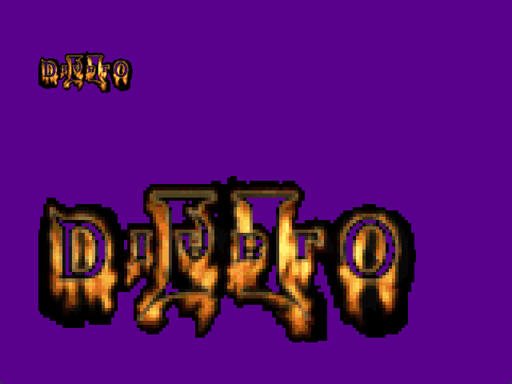
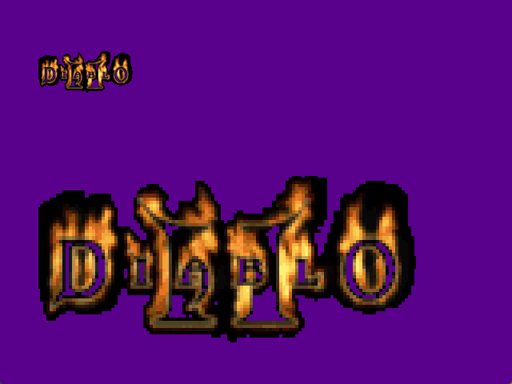
DC-001.4b: el sprite salia espejado verticalmente (lo cazo el usuario)
El logo se veia volteado en pantalla mientras la comparacion pixel a pixel daba 100% igual:
la referencia del host sale del MISMO horneado que la textura, asi que un espejado se
comparaba espejado contra espejado.

Causa: el horneador le daba una vuelta extra a las filas que devuelve dc6.DecodeFrame(). Ese
decodificador arranca en y = height-1 y va bajando porque el DC6 guarda las lineas de abajo
hacia arriba: lo que devuelve YA esta en orden de despliegue (es lo que el motor mete en la
superficie). La vuelta "para el PVR" era el espejado.

Arreglos:
- bake.go: no invierte nada (y deja registrado el flag Flipped del frame para diagnostico)
- compare-capture.py: compara la captura contra la referencia en las cuatro orientaciones e
  informa cual coincide (con la captura vieja delata "espejada vertical 100.0%"), y ubica la
  pantalla de la consola sola por color de fondo, refinando el borde a pixel (KDE abre el
  emulador en distinto lugar: medi 2752,456 y 2850,461)

Verificado: identidad 100% (4051/4051 pixeles de arte, diferencia maxima 7) y transparentes
100% (2085/2085). Confirmado con la vista: el logo se lee derecho, letra por letra.

Changed region(s): [[0.0625, 0.4375, 0.8125, 0.9062], [0.0625, 0.125, 0.25, 0.25]]

diff --git a/scripts/console/compare-capture.py b/scripts/console/compare-capture.py
@@ -42,12 +42,46 @@ def size(png):
     return int(w), int(h)
 
 
+def buscar_pantalla(png, color):
+    """Ubica la pantalla de la consola dentro de la captura: es la zona llena con el color de
+    fondo del POC. Evita depender de donde el gestor de ventanas puso el emulador (KDE la mueve)."""
+    cw, ch = size(png)
+    buf = raw(png, fmt="rgb24")
+    fr, fg, fb = color
+    filas = []
+    for y in range(ch):
+        coinciden = []
+        for x in range(0, cw, 4):
+            i = (y * cw + x) * 3
+            if abs(buf[i] - fr) < 25 and abs(buf[i + 1] - fg) < 25 and abs(buf[i + 2] - fb) < 25:
+                coinciden.append(x)
+        if len(coinciden) > 50:
+            filas.append((y, min(coinciden), max(coinciden)))
+    if not filas:
+        sys.exit(f"no encontre la pantalla: ningun sector ancho del color {color} en {png}")
+
+    def es_fondo(x, y):
+        i = (y * cw + x) * 3
+        return abs(buf[i] - fr) < 25 and abs(buf[i + 1] - fg) < 25 and abs(buf[i + 2] - fb) < 25
+
+    # refinar a pixel: la busqueda gruesa se come el borde de la ventana y quedan 2 px de corrimiento
+    y_medio = (filas[0][0] + filas[-1][0]) // 2
+    x_izq = next(x for x in range(0, cw) if es_fondo(x, y_medio))
+    x_der = next(x for x in range(cw - 1, -1, -1) if es_fondo(x, y_medio))
+    x_medio = (x_izq + x_der) // 2
+    y_arr = next(y for y in range(0, ch) if es_fondo(x_medio, y))
+    y_aba = next(y for y in range(ch - 1, -1, -1) if es_fondo(x_medio, y))
+
+    return x_izq, y_arr, x_der - x_izq + 1
+
+
 def main():
     ap = argparse.ArgumentParser()
     ap.add_argument("--captura", required=True, help="PNG de la captura (pantalla completa)")
     ap.add_argument("--referencia", required=True, help="PNG de referencia que deja el horneador")
-    ap.add_argument("--pantalla", nargs=2, type=int, required=True,
-                    metavar=("X", "Y"), help="origen de la pantalla de la consola en la captura")
+    ap.add_argument("--pantalla", nargs=2, type=int, default=None, metavar=("X", "Y"),
+                    help="origen de la pantalla de la consola en la captura (si se omite, se "
+                         "busca solo por el color de --fondo, que llena la pantalla)")
     ap.add_argument("--pos", nargs=2, type=int, required=True,
                     metavar=("X", "Y"), help="donde se dibujo el asset en la pantalla")
     ap.add_argument("--tol", type=int, default=8, help="tolerancia por canal (ARGB1555 = 8)")
@@ -56,11 +90,44 @@ def main():
     args = ap.parse_args()
 
     W, H = size(args.referencia)
-    sx, sy = args.pantalla
+
+    if args.pantalla is None:
+        if args.fondo is None:
+            sys.exit("sin --pantalla hace falta --fondo: es el color que llena la pantalla de la "
+                     "consola y con el se la ubica")
+        sx, sy, sw = buscar_pantalla(args.captura, args.fondo)
+        print(f"pantalla encontrada en {sx},{sy} (ancho {sw})")
+    else:
+        sx, sy = args.pantalla
+
     px, py = args.pos
 
     host = raw(args.referencia, fmt="rgba")
     dc = raw(args.captura, vf=f"crop={W}:{H}:{sx + px}:{sy + py}")
+
+    def comparar(flipx, flipy):
+        """Cuenta coincidencias comparando la captura contra la referencia en una orientacion.
+
+        La referencia sale del MISMO horneado que la textura, asi que una espejada se compara
+        espejada contra espejada y da 100% igual: por eso hay que mirar las cuatro
+        orientaciones, para delatar un volteo del horneado (paso: el logo salia de cabeza y la
+        comparacion no lo veia).
+        """
+        total = ok = dmax = 0
+        for y in range(H):
+            for x in range(W):
+                sy = (H - 1 - y) if flipy else y
+                sx = (W - 1 - x) if flipx else x
+                i = (sy * W + sx) * 4
+                if host[i + 3] == 0:
+                    continue
+                j = (y * W + x) * 3
+                total += 1
+                d = max(abs(host[i] - dc[j]), abs(host[i + 1] - dc[j + 1]), abs(host[i + 2] - dc[j + 2]))
+                dmax = max(dmax, d)
+                if d <= args.tol:
+                    ok += 1
+        return total, ok, dmax
 
     arte_total = arte_ok = dif_max = 0
     trans_total = trans_ok = 0
@@ -94,6 +161,24 @@ def main():
     if trans_total:
         print(f"  pixeles transparentes: {trans_ok}/{trans_total} "
               f"({100.0 * trans_ok / trans_total:.1f}%) con el fondo visible")
+
+    # orientacion: donde mejor coincide la captura (identidad = como se horneo esta bien)
+    orientaciones = [("identidad", 0, 0), ("espejada horizontal", 1, 0),
+                     ("espejada vertical", 0, 1), ("rotada 180", 1, 1)]
+    print("  orientacion de la captura contra la referencia:")
+    mejor = None
+    for nombre, fx, fy in orientaciones:
+        t, o, _ = comparar(fx, fy)
+        if t == 0:
+            continue
+        pct = 100.0 * o / t
+        print(f"    {nombre:<20} {pct:5.1f}%")
+        if mejor is None or pct > mejor[1]:
+            mejor = (nombre, pct)
+
+    if mejor and mejor[0] != "identidad":
+        print(f"  OJO: la captura coincide mejor {mejor[0]} ({mejor[1]:.1f}%): el horneado tiene que "
+              f"entregar el asset en el orden de despliegue (ver console/dc/bake/bake.go)")
 
     ok = arte_total > 0 and arte_ok == arte_total and (trans_total == 0 or trans_ok == trans_total)
     print("RESULTADO:", "OK" if ok else "NO COINCIDE")

diff --git a/console/dc/bake/bake.go b/console/dc/bake/bake.go
@@ -102,12 +102,11 @@ func main() {
 		fatal("no se pudo decodificar el frame %d", frameIdx)
 	}
 
-	// El decodificador del repo entrega las filas de abajo hacia arriba; el PVR necesita
-	// top-down, asi que se da vuelta aca y listo.
-	topDown := make([]byte, w*h)
-	for y := 0; y < h; y++ {
-		copy(topDown[y*w:(y+1)*w], idx[(h-1-y)*w:(h-y)*w])
-	}
+	// OJO: NO dar vuelta esto. dc6.DecodeFrame() arranca en y = height-1 y va bajando, o sea
+	// compensa que el DC6 guarda las lineas de abajo hacia arriba: lo que devuelve YA esta en
+	// orden de despliegue (fila 0 = arriba), que es como lo usa el motor con ImgIndexToRGBA y
+	// ReplacePixels. Darle una vuelta extra espeja el sprite verticalmente (me paso).
+	topDown := idx
 
 	// El PVR (y KOS) exigen texturas de lado potencia de dos. Se rellena con indice 0, que es
 	// transparente, y el quad dibuja solo el pedazo visible (W x H) con las coordenadas UV.
@@ -205,7 +204,8 @@ func main() {
 	}
 	f.Close()
 
-	fmt.Printf("asset: %s  %dx%d  frame %d/%d\n", dc6Path, w, h, frameIdx, len(dc6.Frames))
+	fmt.Printf("asset: %s  %dx%d  frame %d/%d  (flag Flipped del frame: %d)\n",
+		dc6Path, w, h, frameIdx, len(dc6.Frames), frame.Flipped)
 	fmt.Printf("  -> %s (%d bytes de indices + 512 de paleta; textura %dx%d)\n", hPath, len(padded), pw, ph)
 	fmt.Printf("  -> %s (referencia del host)\n", pngPath)
 }

diff --git a/console/dc/README.md b/console/dc/README.md
@@ -133,6 +133,7 @@ Medido en Flycast (evidencia en `console/dc/evidencia/`):
 | pixeles del arte identicos a la referencia del host | **4051/4051 (100%)**, diferencia maxima 7 por canal (lo que pierde ARGB1555 al guardar 5 bits) |
 | pixeles transparentes con el fondo visible | **2085/2085 (100%)** (indice 0 = transparente, la convencion de Diablo II) |
 | VRAM del asset | 6.136 bytes de indices (118x52 en 16 bits habrian sido 12.272) + la textura rellenada de 128x64 = 8.192 |
+| orientacion | identidad 100% (la primera version salia espejada vertical: ver abajo) |
 | rendimiento | 16.434-16.723 us/frame = 59-60 fps con el asset dibujado dos veces (1:1 y 4x) |
 
 Por que importa: el arte de Diablo II ya **es** paletizado (8 bits + CLUT). Mantenerlo asi
@@ -152,9 +153,13 @@ Y la verificacion no es a ojo: el horneador deja un PNG de referencia y
 donde el POC dibujo el asset y compara pixel a pixel:
 
 ```
-scripts/console/compare-capture.py --captura /tmp/dc-pal8/pantalla.png \
-    --referencia /tmp/dcbuild/pal8/gen/d2logo.png --pantalla 0 0 --pos 48 64 --fondo 89 0 140
+scripts/console/compare-capture.py --captura /tmp/dc-pal8/f10s.png \
+    --referencia /tmp/dcbuild/pal8/gen/d2logo.png --pos 48 64 --fondo 89 0 140
 ```
+
+La herramienta ubica sola la pantalla de la consola dentro de la captura buscando el color de
+fondo (KDE abre el emulador donde quiere: la primera vez estaba en 2752,456 y despues en
+2850,461) y ademas informa **en cual de las cuatro orientaciones** coincide la captura.
 
 ### Los datos del juego no entran al repo
 
@@ -163,6 +168,27 @@ el horneado corre **en tiempo de build**: `console/dc/bake` (herramienta del hos
 el MPQ de la instalacion de Diablo II y escribe el `.h` en el directorio de build
 (`/tmp/dcbuild/<poc>/gen`), que es descartable. El repo solo guarda el **horneador** y el
 descriptor `console/dc/poc/<poc>/bake.conf`, nunca el arte.
+
+### El volteo del sprite, y por que la comparacion no lo veia
+
+La primera version salia **espejada verticalmente** (me lo cazo el usuario mirando la pantalla:
+"el logo se ve volteado"), y la comparacion pixel a pixel daba 100% igual. El agujero de metodo:
+la referencia del host sale del **mismo** horneado que la textura, asi que un espejado se
+comparaba espejado contra espejado y daba perfecto. La herramienta ahora compara la captura
+contra la referencia en las cuatro orientaciones y avisa cual gano:
+
+```
+  orientacion de la captura contra la referencia:
+    identidad             17.8%
+    espejada horizontal   12.8%
+    espejada vertical    100.0%     <- asi se delata
+```
+
+Causa: `dc6.DecodeFrame()` arranca en `y = height-1` y va bajando porque el formato DC6 guarda
+las lineas de abajo hacia arriba: lo que devuelve **ya esta en orden de despliegue** (es lo que
+el motor mete en la superficie con `ImgIndexToRGBA` + `ReplacePixels`). Yo le daba una vuelta
+extra "para el PVR" y eso era exactamente el espejado. Moraleja para el horneado: no
+"arreglar" el orden de los pixeles que devuelve un decodificador del motor; usarlo tal cual.
 
 ### Tres piedras con las que me tope (van a volver a aparecer)
 
